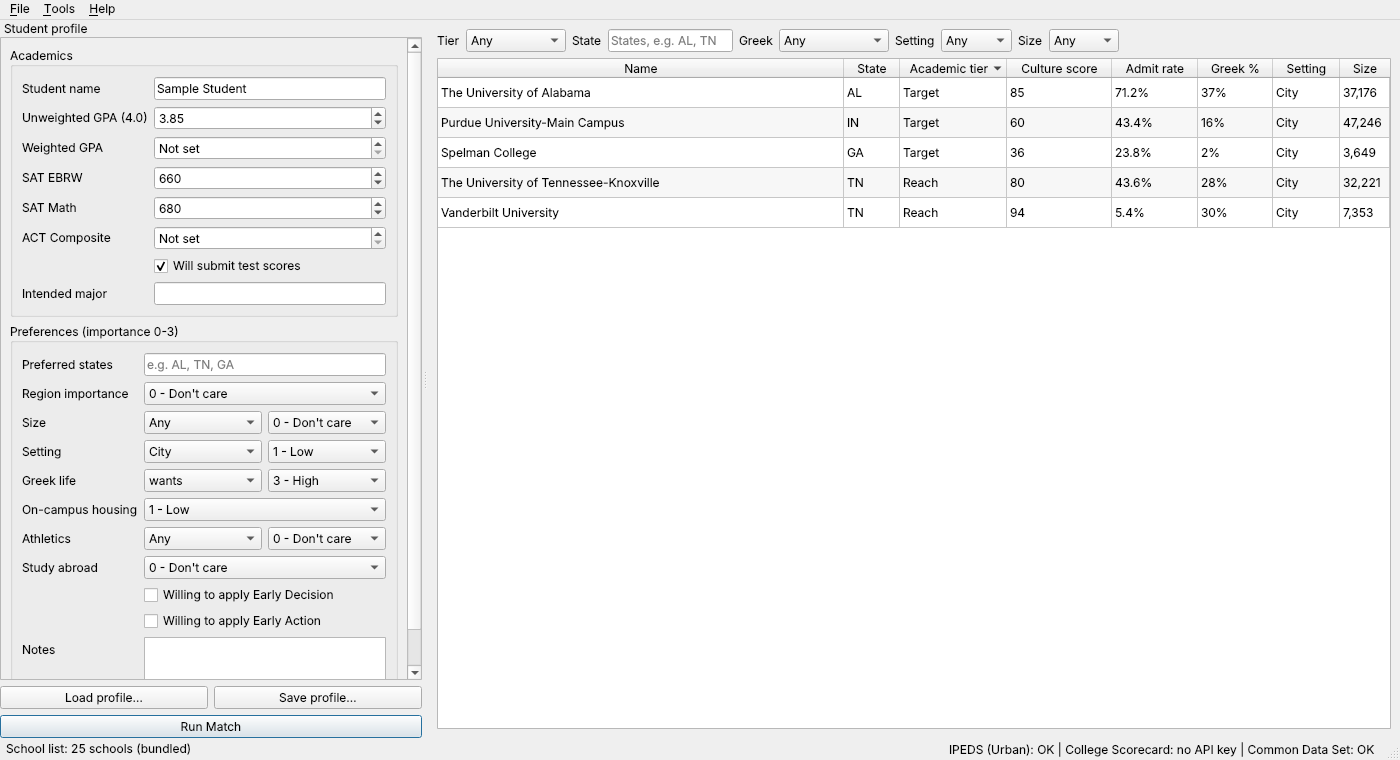
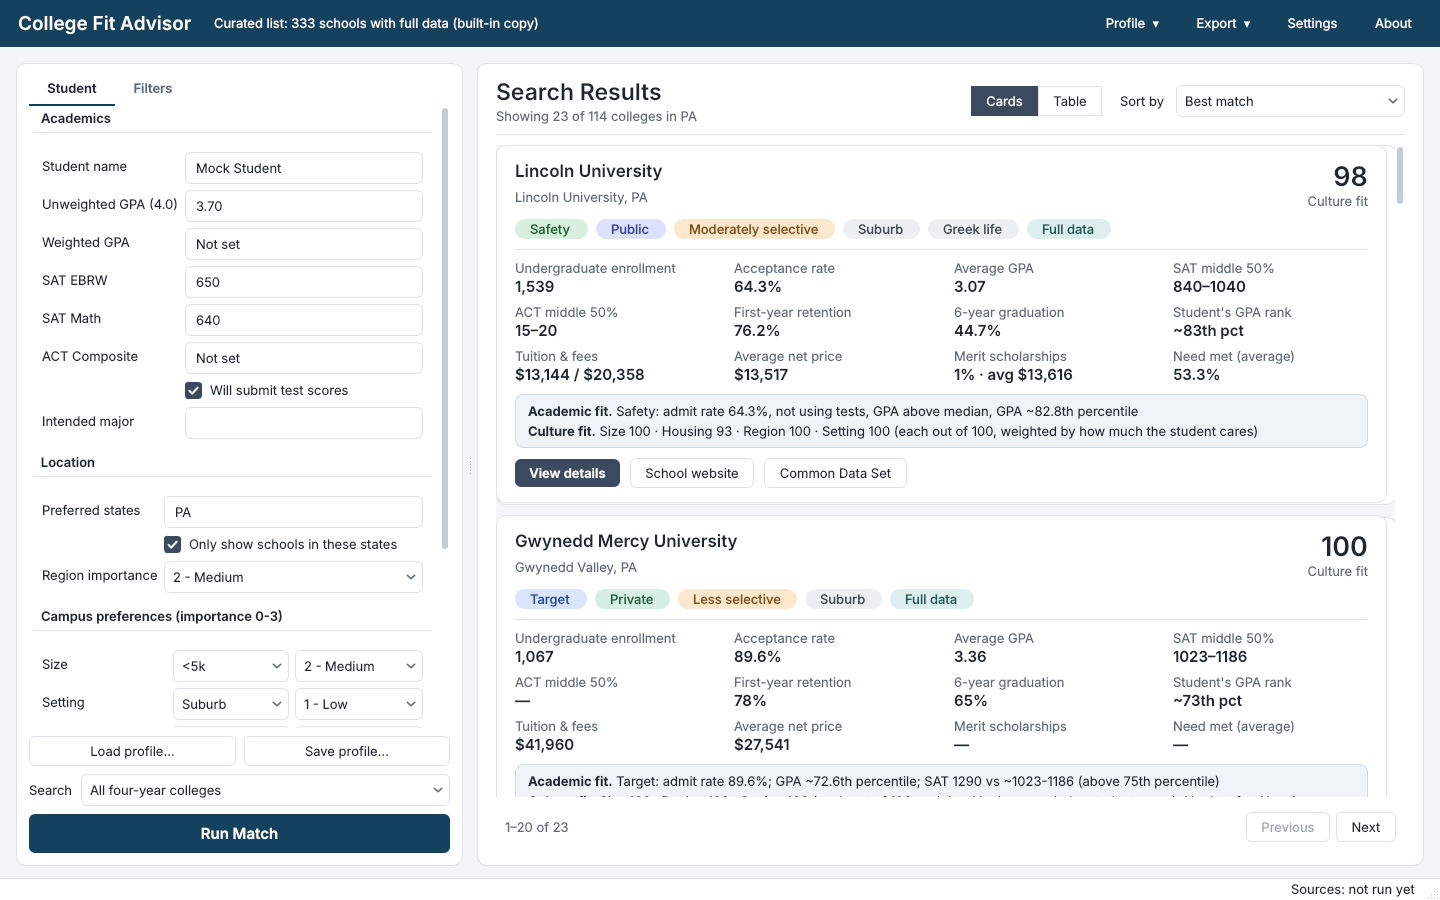
README: all-colleges search, cost and scholarship data, new screenshot
Claude-Session: https://claude.ai/code/session_01MDHMdzTJtprkSScXhMF3Z9

diff --git a/README.md b/README.md
@@ -1,12 +1,22 @@
 # College Fit Advisor
 
-A Windows desktop app for college advisors. Enter a student's profile and get every school in the
-registry ranked two ways:
+A Windows desktop app for college advisors. Enter a student's profile and search every four-year
+college in the U.S. (about 1,700 public and private nonprofit schools) or just the student's states.
+Each school is ranked two ways:
 
 - **Academic fit** — Safety / Target / Reach from the admit rate, the school's GPA distribution and its
   SAT/ACT middle 50 %, with the reasoning shown.
 - **Culture fit** — Greek life, setting, size, housing, athletics, region and study abroad, weighted by
   what the student cares about.
+
+Each result also shows **cost and aid**: tuition and fees, average net price (overall and by family
+income), and, where the school publishes it, how often it gives **merit scholarships** and the average
+award. Results come as cards or a sortable table, with filters (fit, size, setting, selectivity,
+net price, …) and CSV/PDF export.
+
+Every college gets federal data. The **333 colleges on the curated list** also get their Common Data
+Set, which adds the GPA distribution, early decision/action numbers, Greek life and scholarship
+figures.
 
 ![screenshot](docs/screenshot.png)
 
@@ -16,10 +26,11 @@ memory for the session only:
 | Source | Used for |
 |---|---|
 | IPEDS via the [Urban Institute Education Data Portal](https://educationdata.urban.org/) | directory, setting, admissions counts, test ranges, retention, graduation, athletics |
-| [College Scorecard](https://collegescorecard.ed.gov/data/documentation/) (free API key) | undergraduate size and fallbacks |
-| Each school's own **Common Data Set** (PDF/XLSX on its `.edu` site) | GPA distribution, ED/EA, Greek life, housing, admission factors, test policy |
+| [College Scorecard](https://collegescorecard.ed.gov/data/documentation/) (free API key) | undergraduate size, tuition and fees, cost of attendance, net price by income, Pell share, median debt |
+| Each school's own **Common Data Set** (PDF/XLSX on its `.edu` site) | GPA distribution, ED/EA, Greek life, housing, admission factors, test policy, need-based and merit aid (H2/H2A) |
 
-Niche, Peterson's, BigFuture and College Transitions are **link-outs only** (their terms forbid
+Without a Scorecard key the app still works; tuition then comes from IPEDS and net price is not
+shown. Niche, Peterson's, BigFuture and College Transitions are **link-outs only** (their terms forbid
 automated collection). Details: [docs/DATA_SOURCES.md](docs/DATA_SOURCES.md).
 
 ## Install (Windows)
@@ -40,6 +51,7 @@ python -m cfa --self-test                            # load registry, ping sourc
 pytest                                               # offline: recorded fixtures only
 ruff check src tests && mypy src
 python -m cfa.tools.validate_registry                # check every registry link + parse
+python -m cfa.tools.find_cds list --states PA --out todo.json   # propose new registry entries
 python -m cfa.tools.live_smoke --baseline docs/coverage_baseline.json   # real sources
 pyinstaller packaging/cfa.spec --noconfirm           # build dist/CollegeFitAdvisor/
 ```
@@ -54,10 +66,10 @@ Set `CFA_SCORECARD_API_KEY` in the environment, or save the key in the app's **S
 src/cfa/            app.py, config.py, pipeline.py, aggregate.py, cache.py
   models/           FieldValue, CollegeRecord, StudentProfile
   sources/          http client, Urban/IPEDS, Scorecard, registry loader
-  sources/cds/      fetch, PDF/XLSX → layout rows, section extractors (C1 … F1, B22)
+  sources/cds/      fetch, PDF/XLSX → layout rows, section extractors (B22, C1 … F1, H2)
   scoring/          academic (tiers), culture (0-100)
   ui/               PySide6 window, results table, detail view, charts, settings
-  tools/            validate_registry, live_smoke
+  tools/            validate_registry, live_smoke, find_cds (finds CDS files on a college's own site)
 registry/schools.yaml   pointers only (UnitIDs + CDS URLs); mirrored to the public
                         mpromisel002-CollegeIQDashboard-registry repo the app reads (see docs/ADDING_SCHOOLS.md)
 tests/              unit, adapters (respx), parsers (real CDS samples), ui (pytest-qt)
